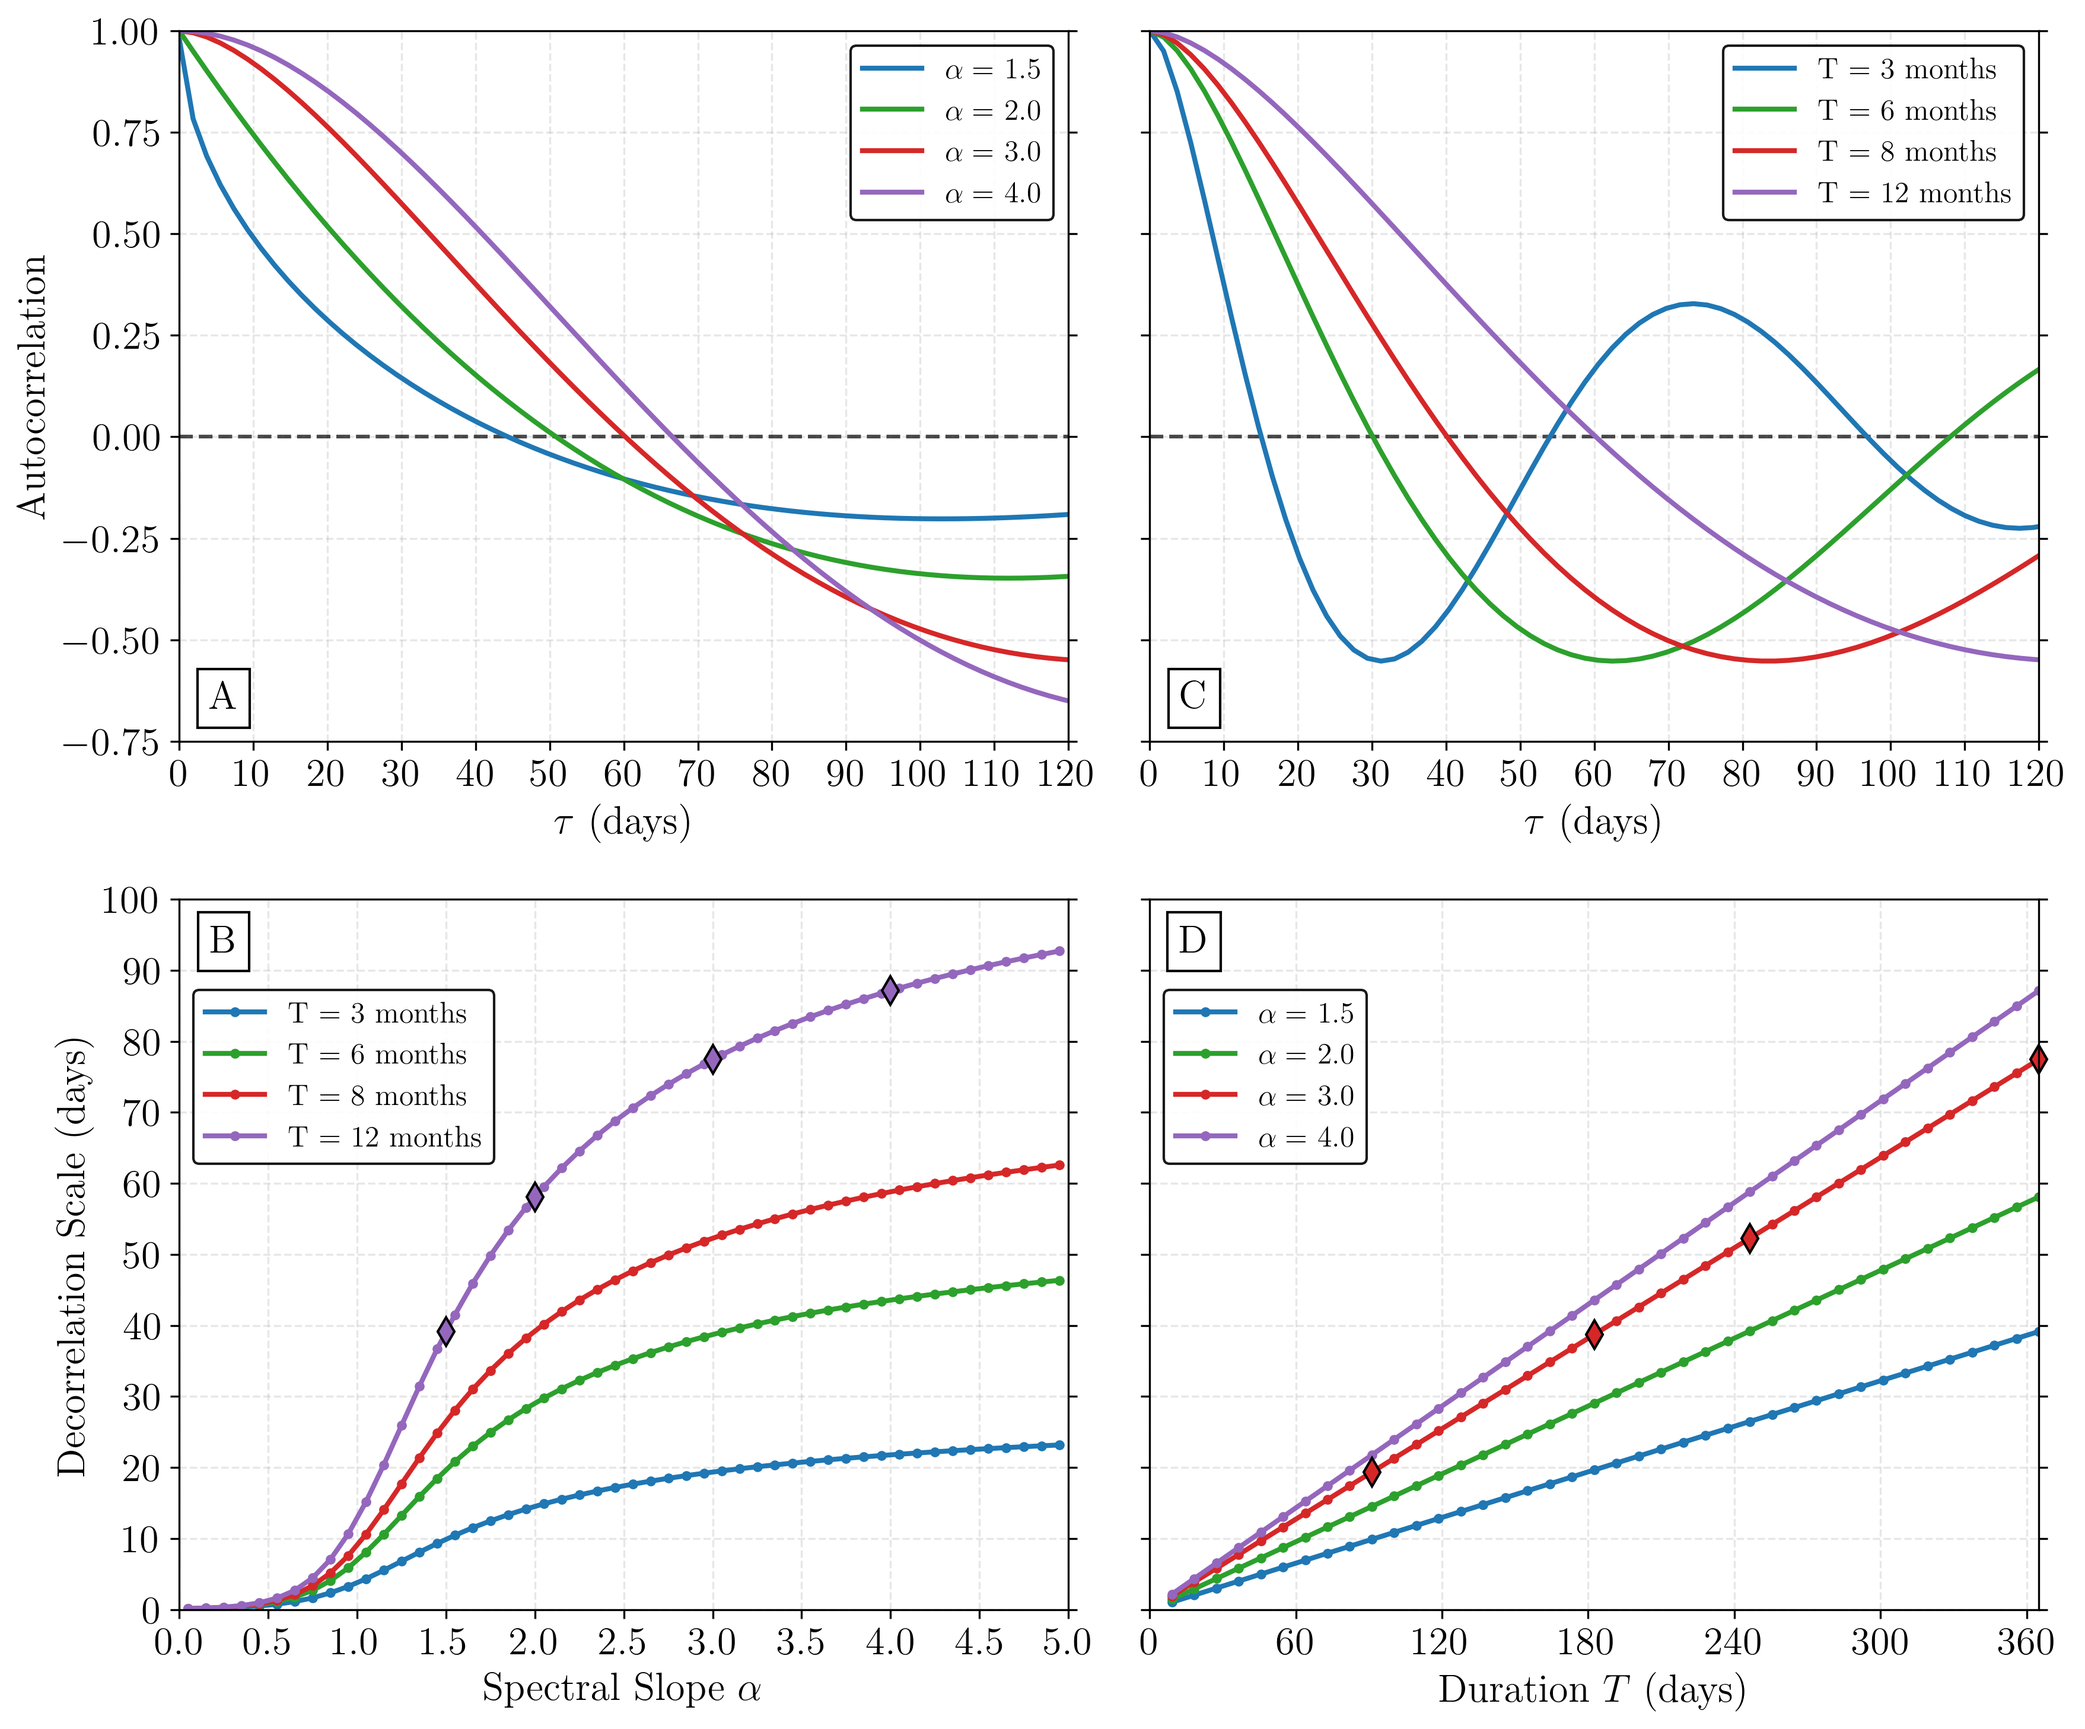
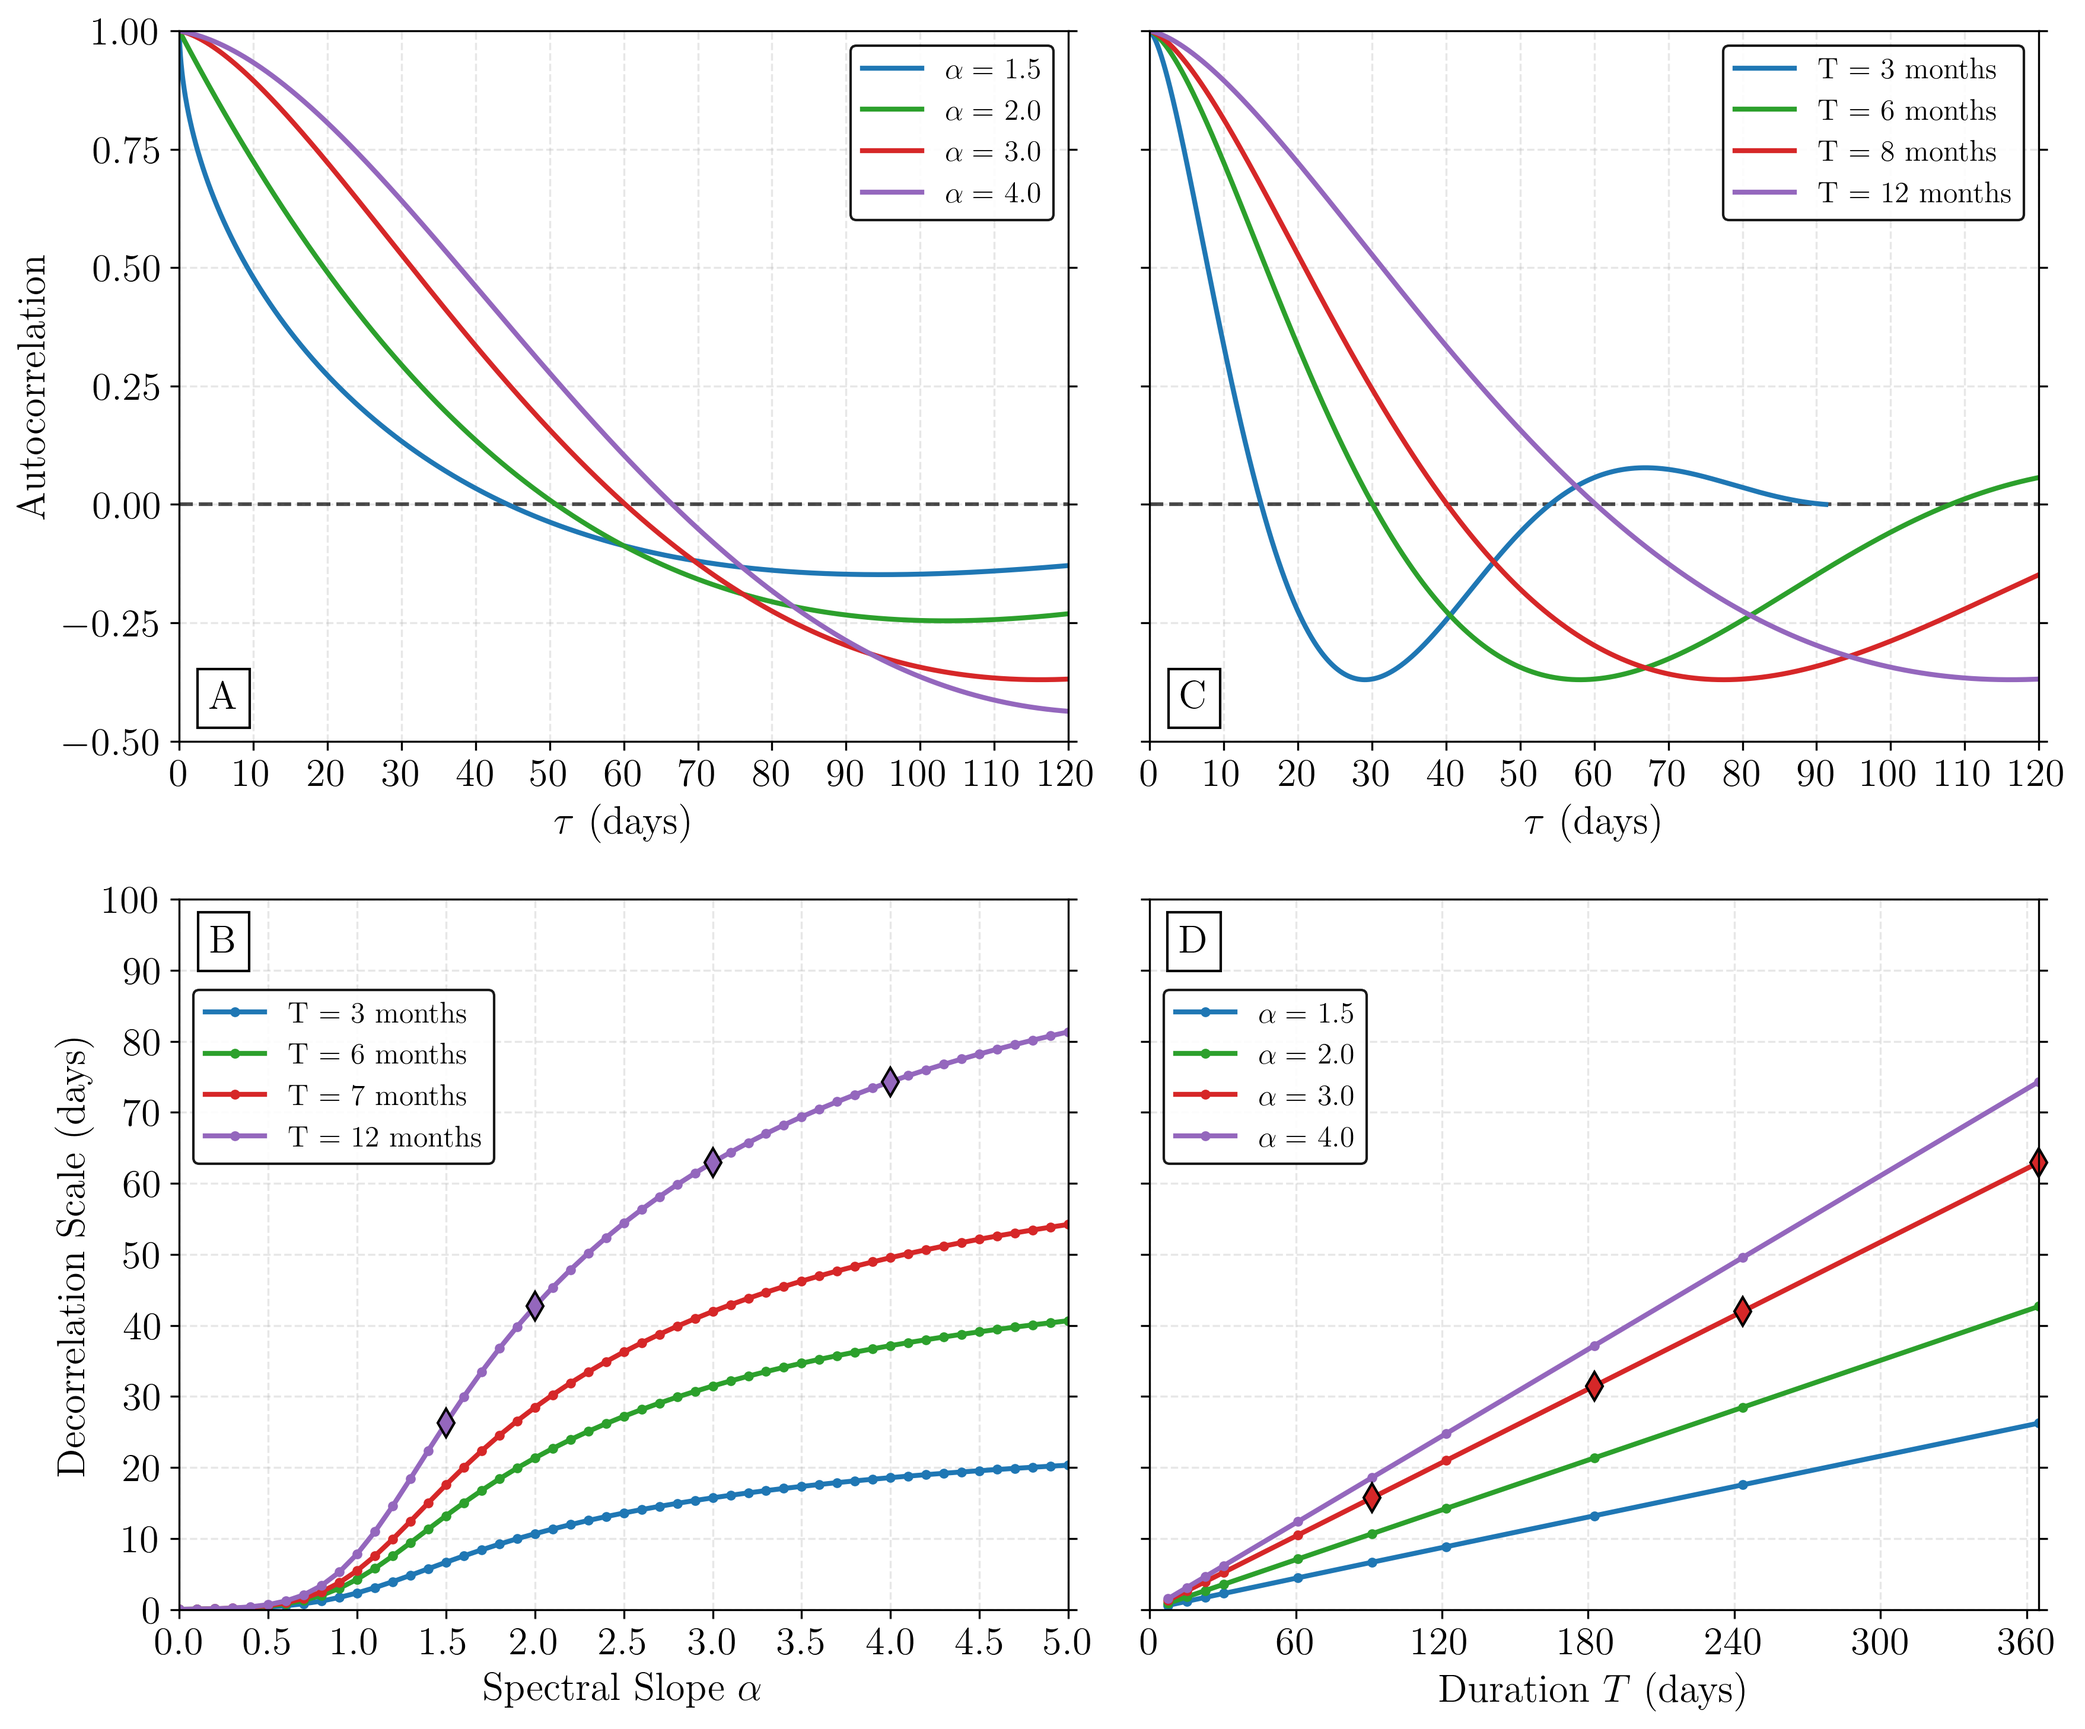
Plot max I(tau) decor scale in fig03

diff --git a/src/fig03.py b/src/fig03.py
@@ -45,8 +45,14 @@ sys.path.append(str(PATH_tools))
 from plotting import add_corner_label
 
 # -----------------------------------------------------------------------------
-# Set plotting parameters 
+# Set processing and plotting parameters 
 # -----------------------------------------------------------------------------
+
+# Set processing parameters
+option_biased = True
+
+# Label segment processing 
+autocorr_estimate = "biased" if option_biased else "unbiased"
 
 # Set font and fontsize using LaTeX 
 fontsize=16
@@ -62,14 +68,14 @@ plt.rcParams.update({
 # -----------------------------------------------------------------------------
 
 # Set filename to saved the netcdf file
-filename = PATH_data / "analytic" / f"analytic_decor_scale.nc"
+filename = PATH_data / "analytic" / f"analytic_decor_scale_{autocorr_estimate}.nc"
 
 # Load in data
 with Dataset(filename, "r") as nc:
 
     # Load analytic autocorrelation and decorrelation scale
     rho     = nc.variables["autocorr"][:]
-    T_tilde = nc.variables["decor_scale"][:]
+    T_tilde = nc.variables["decor_scale_maxI"][:]
 
     # Load coordinates
     tau             = nc.variables["lag"][:]
@@ -123,9 +129,9 @@ for k, idx_alpha in enumerate(idx_alpha_p):
 ax.set_ylabel('Autocorrelation')
 ax.set_xlabel(r'$\tau$ (days)')
 ax.set_xticks(np.arange(0,365+10,10))
-ax.set_yticks(np.arange(-0.75,1+0.25,0.25))
+ax.set_yticks(np.arange(-0.5,1+0.25,0.25))
 ax.set_xlim(0,120)
-ax.set_ylim(-0.75,1)
+ax.set_ylim(-0.5,1)
 ax.tick_params(top=False, bottom=True, left=True, right=True,
             direction='out', length=3.5)
 ax.grid(True,linestyle='--',alpha=0.3)
@@ -140,17 +146,20 @@ ax = axes[0,1]
 ax.axhline(0, ls = '--', lw = 1.5, alpha = 0.7, color='k')
 
 # Loop through f_min values 
-for k in range(0,len(T_months_ac)): 
+for k in range(0,len(T_months_p)): 
+
+    # Find indices of duration values to plot
+    idx_T_p = np.where(np.isclose(T_months_ac, T_months_p[k]))[0][0]
 
     # Plot the ith autocorrelation function for the ith T value 
-    ax.plot(tau, rho[:,k,idx_alpha_ac], '-', lw = 2, label=f"T = {int(round(T_months_ac[k]))} months", color=colors_decor[k]) 
+    ax.plot(tau, rho[:,idx_T_p,idx_alpha_ac], '-', lw = 2, label=f"T = {int(round(T_months_ac[idx_T_p]))} months", color=colors_decor[k]) 
 
 # Set axis attributes 
 ax.set_xlabel(r'$\tau$ (days)')
 ax.set_xticks(np.arange(0,365+10,10))
-ax.set_yticks(np.arange(-0.75,1+0.25,0.25))
+ax.set_yticks(np.arange(-0.5,1+0.25,0.25))
 ax.set_xlim(0,120)
-ax.set_ylim(-0.75,1)
+ax.set_ylim(-0.5,1)
 ax.set_yticklabels([])
 ax.tick_params(top=False, bottom=True, left=True, right=True,
             direction='out', length=3.5)
@@ -166,21 +175,21 @@ ax = axes[1,0]
 for k, iT in enumerate(T_months_p): 
 
     # Find index value
-    idx_T = np.argmin(np.abs(T_months_ds - iT))
+    idx_T = np.argmin(np.abs(T_months_ac - iT))
 
     # Plot the decorrelation scale as a function of spectral slope
-    ax.plot(alpha_values_ds[::2], T_tilde[idx_T,::2], '.-', lw = 2, label=f"T = {int(T_months_ds[idx_T])} months", color=colors_decor[k]) 
+    ax.plot(alpha_values_ac[::2], T_tilde[idx_T,::2], '.-', lw = 2, label=f"T = {int(T_months_ac[idx_T])} months", color=colors_decor[k]) 
 
 # Plot markers for decorrelation scales for alpha = 1.5, 2, 3, 4 and T = 12 months
-idx_t = np.argmin(np.abs(T_months_ds - 12))
-idx_a1 = np.argmin(np.abs(alpha_values_ds - 1.5))
-idx_a2 = np.argmin(np.abs(alpha_values_ds - 2))
-idx_a3 = np.argmin(np.abs(alpha_values_ds - 3))
-idx_a4 = np.argmin(np.abs(alpha_values_ds - 4))
-ax.plot(alpha_values_ds[idx_a1], T_tilde[idx_t, idx_a1], 'd', color='tab:purple', markersize=8, markeredgecolor='black', markeredgewidth=1)
-ax.plot(alpha_values_ds[idx_a2], T_tilde[idx_t, idx_a2], 'd', color='tab:purple', markersize=8, markeredgecolor='black', markeredgewidth=1)
-ax.plot(alpha_values_ds[idx_a3], T_tilde[idx_t, idx_a3], 'd', color='tab:purple', markersize=8, markeredgecolor='black', markeredgewidth=1)
-ax.plot(alpha_values_ds[idx_a4], T_tilde[idx_t, idx_a4], 'd', color='tab:purple', markersize=8, markeredgecolor='black', markeredgewidth=1)
+idx_t = np.argmin(np.abs(T_months_ac - 12))
+idx_a1 = np.argmin(np.abs(alpha_values_ac - 1.5))
+idx_a2 = np.argmin(np.abs(alpha_values_ac - 2))
+idx_a3 = np.argmin(np.abs(alpha_values_ac - 3))
+idx_a4 = np.argmin(np.abs(alpha_values_ac - 4))
+ax.plot(alpha_values_ac[idx_a1], T_tilde[idx_t, idx_a1], 'd', color='tab:purple', markersize=8, markeredgecolor='black', markeredgewidth=1)
+ax.plot(alpha_values_ac[idx_a2], T_tilde[idx_t, idx_a2], 'd', color='tab:purple', markersize=8, markeredgecolor='black', markeredgewidth=1)
+ax.plot(alpha_values_ac[idx_a3], T_tilde[idx_t, idx_a3], 'd', color='tab:purple', markersize=8, markeredgecolor='black', markeredgewidth=1)
+ax.plot(alpha_values_ac[idx_a4], T_tilde[idx_t, idx_a4], 'd', color='tab:purple', markersize=8, markeredgecolor='black', markeredgewidth=1)
 
 # Set axis attributes 
 ax.set_xlabel(r'Spectral Slope $\alpha$')
@@ -203,21 +212,21 @@ ax = axes[1,1]
 for k, ialpha in enumerate(alpha_p): 
 
     # Find index value
-    idx_alpha = np.argmin(np.abs(np.array(alpha_values_ds) - ialpha))
+    idx_alpha = np.argmin(np.abs(np.array(alpha_values_ac) - ialpha))
 
     # Plot the decorrelation scale as a function of f_min
-    ax.plot(T_ds, T_tilde[:,idx_alpha], '.-', lw = 2, label=rf"$\alpha =$ {np.round(alpha_values_ds[idx_alpha],1)}", color=colors_decor[k]) 
+    ax.plot(T_ac, T_tilde[:,idx_alpha], '.-', lw = 2, label=rf"$\alpha =$ {np.round(alpha_values_ac[idx_alpha],1)}", color=colors_decor[k]) 
 
 # Plot markers for decorrelation scales for alpha = 3 and T = 3, 6, 8, 12 months
-idx_t3 = np.argmin(np.abs(T_months_ds - 3))
-idx_t6 = np.argmin(np.abs(T_months_ds - 6))
-idx_t8 = np.argmin(np.abs(T_months_ds - 8))
-idx_t12 = np.argmin(np.abs(T_months_ds - 12))
-idx_a = np.argmin(np.abs(alpha_values_ds - 3))
-ax.plot(T_ds[idx_t3], T_tilde[idx_t3, idx_a], 'd', color='tab:red', markersize=8, markeredgecolor='black', markeredgewidth=1)
-ax.plot(T_ds[idx_t6], T_tilde[idx_t6, idx_a], 'd', color='tab:red', markersize=8, markeredgecolor='black', markeredgewidth=1)
-ax.plot(T_ds[idx_t8], T_tilde[idx_t8, idx_a], 'd', color='tab:red', markersize=8, markeredgecolor='black', markeredgewidth=1)
-ax.plot(T_ds[idx_t12], T_tilde[idx_t12, idx_a], 'd', color='tab:red', markersize=8, markeredgecolor='black', markeredgewidth=1, clip_on=False)
+idx_t3 = np.argmin(np.abs(T_months_ac - 3))
+idx_t6 = np.argmin(np.abs(T_months_ac - 6))
+idx_t8 = np.argmin(np.abs(T_months_ac - 8))
+idx_t12 = np.argmin(np.abs(T_months_ac - 12))
+idx_a = np.argmin(np.abs(alpha_values_ac - 3))
+ax.plot(T_ac[idx_t3], T_tilde[idx_t3, idx_a], 'd', color='tab:red', markersize=8, markeredgecolor='black', markeredgewidth=1)
+ax.plot(T_ac[idx_t6], T_tilde[idx_t6, idx_a], 'd', color='tab:red', markersize=8, markeredgecolor='black', markeredgewidth=1)
+ax.plot(T_ac[idx_t8], T_tilde[idx_t8, idx_a], 'd', color='tab:red', markersize=8, markeredgecolor='black', markeredgewidth=1)
+ax.plot(T_ac[idx_t12], T_tilde[idx_t12, idx_a], 'd', color='tab:red', markersize=8, markeredgecolor='black', markeredgewidth=1, clip_on=False)
 
 # Set axis attributes 
 ax.set_xlabel(r'Duration $T$ (days)')

diff --git a/src/figS03.py b/src/figS03.py
@@ -180,9 +180,9 @@ for k, idx_alpha in enumerate(idx_alpha_p):
 ax.set_ylabel('Autocorrelation')
 ax.set_xlabel(r'$\tau$ (days)')
 ax.set_xticks(np.arange(0,365+10,10))
-ax.set_yticks(np.arange(-0.75,1+0.25,0.25))
+ax.set_yticks(np.arange(-0.5,1+0.25,0.25))
 ax.set_xlim(0,120)
-ax.set_ylim(-0.75,1)
+ax.set_ylim(-0.5,1)
 ax.tick_params(top=False, bottom=True, left=True, right=True,
             direction='out', length=3.5)
 ax.grid(True,linestyle='--',alpha=0.3)
@@ -237,9 +237,9 @@ for k, idx_T in enumerate(idx_T_p):
 # Set axis attributes 
 ax.set_xlabel(r'$\tau$ (days)')
 ax.set_xticks(np.arange(0,365+10,10))
-ax.set_yticks(np.arange(-0.75,1+0.25,0.25))
+ax.set_yticks(np.arange(-0.5,1+0.25,0.25))
 ax.set_xlim(0,120)
-ax.set_ylim(-0.75,1)
+ax.set_ylim(-0.5,1)
 ax.set_yticklabels([])
 ax.tick_params(top=False, bottom=True, left=True, right=True,
             direction='out', length=3.5)

diff --git a/src/figS02.py b/src/figS02.py
@@ -25,7 +25,6 @@ from netCDF4 import Dataset, num2date
 from datetime import datetime
 import matplotlib.pyplot as plt
 import matplotlib.dates as mdates
-from matplotlib.ticker import FuncFormatter
 
 # Set path to project root directory
 ROOT = Path(__file__).resolve().parents[1]
